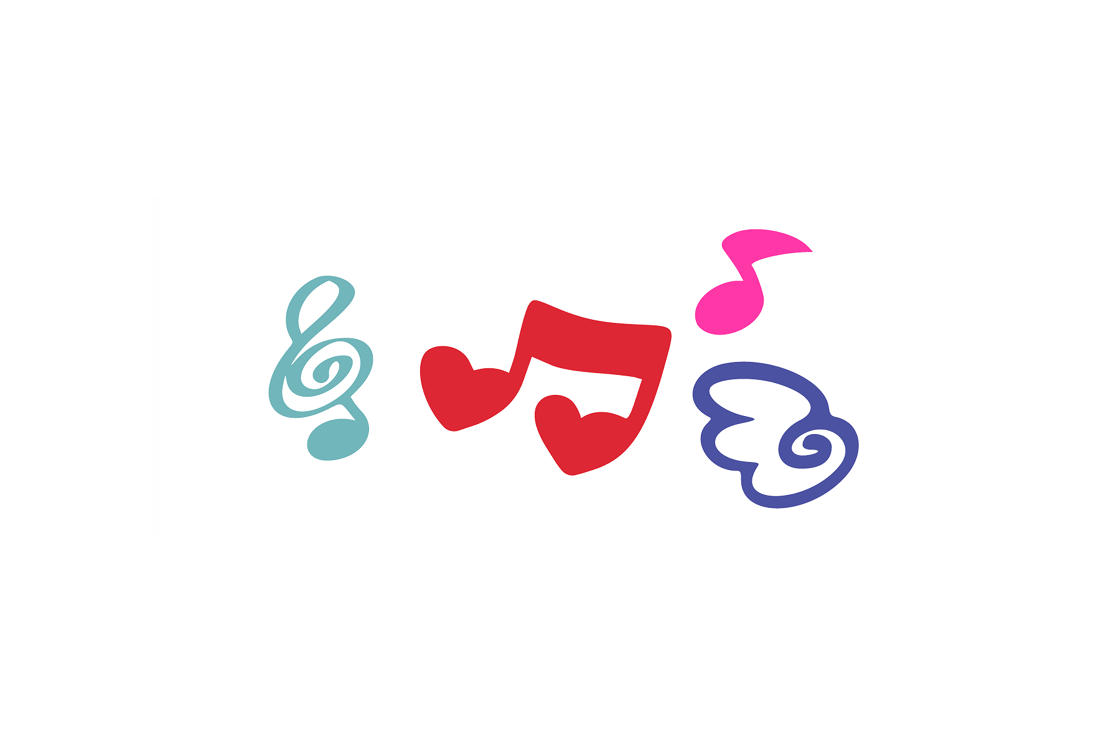
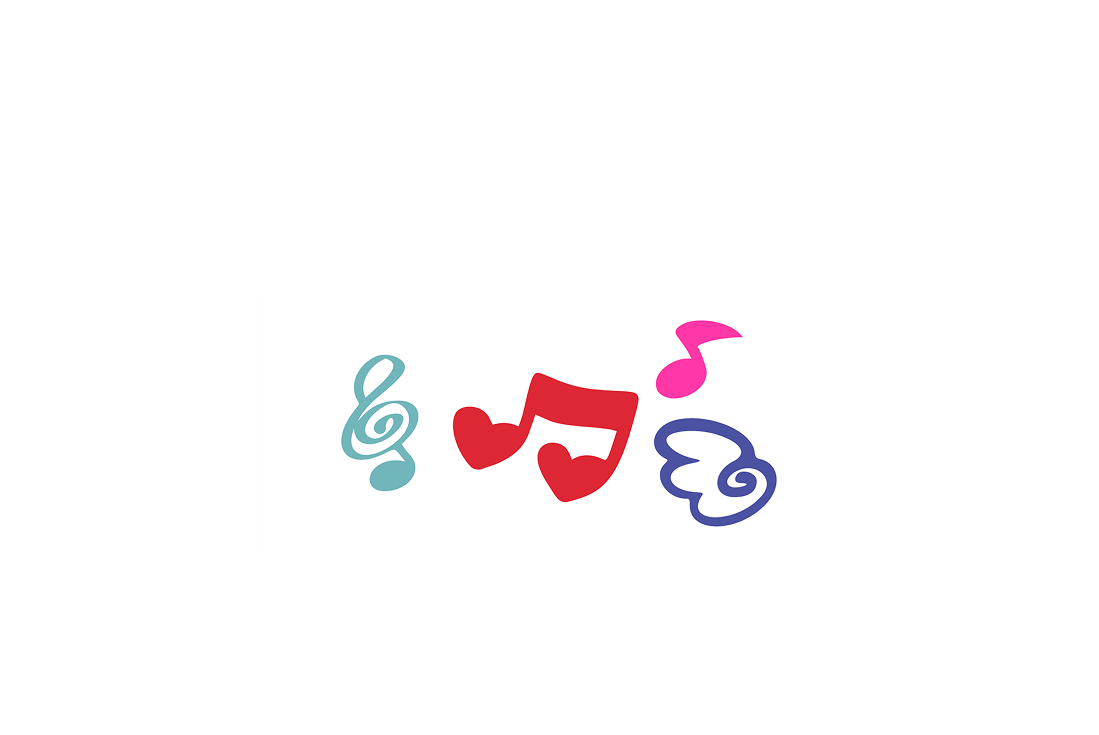
updated the ascii sections. and a new footer. still need more updates to ascii though

Changed region(s): [[0.2475, 0.2993, 0.8044, 0.7184]]

diff --git a/src/footer.js b/src/footer.js
@@ -9,117 +9,186 @@ class FooterComponent extends HTMLElement {
 
       <style>
         * {
+          box-sizing: border-box;
           font-family: "Darker Grotesque", sans-serif;
         }
 
         footer {
-              background: #1B191B;
-
-         //padding: 48px 64px;
-          padding: 32px 64px;
+          background: #1B191B;
+          padding: 40px 96px;
           border-top: 1px solid #272630;
           display: flex;
           justify-content: space-between;
           align-items: center;
+          gap: 2rem;
+        }
+
+        /* Each section takes equal width */
+        .footer-brand {
+          flex: 1;
+        }
+
+        .footer-nav {
+          flex: 1;
+          display: flex;
+          justify-content: center;
+        }
+
+        .footer-social {
+          flex: 1;
+          display: flex;
+          justify-content: flex-end;
         }
 
         header {
           font-size: 20px;
           color: #FFFFFF;
           font-weight: 500;
+          white-space: nowrap;
+        }
+
+        .nav-links {
+          display: flex;
+          gap: 0.25rem;
+          list-style: none;
+          margin: 0;
+          padding: 0;
+          font-weight: 500;
+          align-items: center;
+        }
+
+        .nav-links a {
+          color: #8C8A98;
+          font-size: 14px;
+          font-family: "Fragment Mono", monospace;
+          display: inline-block;
+          padding: 6px 10px;
+          text-decoration: none;
+          border-radius: 6px;
+          transition: color 0.2s ease;
+          white-space: nowrap;
+        }
+
+        .nav-links a:hover {
+          color: #FFFFFF;
         }
 
         .social-links {
           display: flex;
-          gap: 1rem;
+          gap: 0.5rem;
+          align-items: center;
         }
 
-        a {
+        .social-links a {
           display: flex;
           justify-content: center;
           align-items: center;
-          width: 3rem;
-          height: 3rem;
-          font-size: 1.5rem;
-          border-radius: 12px;
+          width: 2.25rem;
+          height: 2.25rem;
+          font-size: 1rem;
+          border-radius: 10px;
           text-decoration: none;
-          transition: background 0.3s ease-in-out; /* Smooth transition for background color */
+          transition: background 0.25s ease, transform 0.2s ease;
           color: white;
+          background: #2a2830;
+          flex-shrink: 0;
         }
 
-        /* Button Colors */
-        a.linkedin {
-        }
-        a.instagram {
-        }
-        a.behance {
-        }
-        a.email {
+        .social-links a:hover {
+          transform: translateY(-2px);
         }
 
-        /* Lighten Hover Effect */
-        a.linkedin:hover {
-          background: #6f76c8; /* Lighter shade for hover effect */
-        }
-        a.instagram:hover {
-          background: rgb(255, 95, 158); /* Lighter shade for hover effect */
-        }
-        a.behance:hover {
-          background: #5e3c49; /* Lighter shade for Behance on hover */
-        }
-        a.email:hover {
-          background: #33b0b0; /* Lighter shade for hover effect */
+        .social-links a.linkedin:hover {
+          background: #6f76c8;
         }
 
-        @media (min-width: 1100px) {
-          .social-links {
-            gap: 2rem;
-          }
-          a {
-            width: 7.5rem;
+        .social-links a.email:hover {
+          background: #33b0b0;
+        }
+
+        /* instagram / behance — commented out but ready */
+        .social-links a.instagram:hover {
+          background: rgb(255, 95, 158);
+        }
+        .social-links a.behance:hover {
+          background: #5e3c49;
+        }
+
+        @media (min-width: 1536px) {
+          header {
+            font-size: 28px;
           }
         }
 
-
-         @media (min-width: 1536px) {
-         
-        header {
-          font-size: 28px;
-        }
-
+        @media (max-width: 900px) {
+          footer {
+            padding: 36px 48px;
+          }
+          .nav-links a {
+            padding: 6px 7px;
+          }
         }
 
         @media (max-width: 768px) {
           footer {
             flex-direction: column;
-            padding: 28px;
-            gap: 24px;
+            align-items: center;
+            padding: 32px 24px;
+            gap: 20px;
+            text-align: center;
           }
+
+          .footer-brand,
+          .footer-nav,
+          .footer-social {
+            flex: unset;
+            width: 100%;
+            display: flex;
+            justify-content: center;
+          }
+
+          .nav-links {
+            flex-wrap: wrap;
+            justify-content: center;
+            gap: 0;
+          }
+
           .social-links {
             justify-content: center;
-            margin-top: 0.5rem;
-            gap: 16px;
-          }
-          a {
-            width: 3rem;
-            height: 3rem;
-            border-radius: 12px;
+            gap: 0.75rem;
           }
         }
       </style>
 
       <footer>
-        <header>Fine-tuned and developed in JS and by me :)</header>
-        <div class="social-links">
-          <a class="linkedin" href="https://www.linkedin.com/in/ninale65/" target="_blank">
-            <i class="fa-brands fa-linkedin-in"></i>
-          </a>
+        <div class="footer-brand">
+          <header>© 2026, Developed in JS by me :)</header>
+        </div>
 
-      
+        <nav class="footer-nav">
+          <ul class="nav-links">
+            <li><a href="index.html">HOME</a></li>
+            <li><a href="archive.html">PLAYGROUND</a></li>
+            <li><a href="about.html">ABOUT</a></li>
+            <li><a href="mailto:ninalle.65@gmail.com">RESUME</a></li>
+          </ul>
+        </nav>
 
-          <a class="email" href="mailto:ninalle.65@gmail.com">
-            <i class="fa-solid fa-envelope"></i>
-          </a>
+        <div class="footer-social">
+          <div class="social-links">
+            <a class="linkedin" href="https://www.linkedin.com/in/ninale65/" target="_blank" aria-label="LinkedIn">
+              <i class="fa-brands fa-linkedin-in"></i>
+            </a>
+            <!-- <a class="instagram" href="https://www.instagram.com/ninmedias/" target="_blank" aria-label="Instagram">
+              <i class="fa-brands fa-instagram"></i>
+            </a> -->
+            <!-- <a class="behance" href="https://www.behance.net/ninale1" target="_blank" aria-label="Behance">
+              <i class="fa-brands fa-behance"></i>
+            </a> -->
+            <a class="email" href="mailto:ninalle.65@gmail.com" aria-label="Email">
+              <i class="fa-solid fa-envelope"></i>
+            </a>
+          </div>
         </div>
       </footer>
     `;
@@ -127,13 +196,3 @@ class FooterComponent extends HTMLElement {
 }
 
 customElements.define("footer-component", FooterComponent);
-
-
-    
-          // <a class="instagram" href="https://www.instagram.com/ninmedias/" target="_blank">
-          //   <i class="fa-brands fa-instagram"></i>
-          // </a>
-          // <a class="behance" href="https://www.behance.net/ninale1" target="_blank">
-          //   <i class="fa-brands fa-behance"></i>
-          // </a>
-          

diff --git a/src/archive.html b/src/archive.html
@@ -76,40 +76,6 @@
 
 
     
-    <section class="flex flex-col md:flex-row pt-8 md:pt-12 md:pb-6 gap-6 flex-1">
-      <div class="flex flex-col gap-4 md:gap-8 px-4 md:px-16 sm:pt-10">
-          <h3>Let's Chat</h3>
-          <h4>See something that caught your eye? I’d be happy to collaborate and discuss new opportunities together</h4>
-      </div>
-      <div class="w-full">
-  
-        <a href="https://drive.google.com/file/d/15Vbiz09x6SVD2cTScr3ldKVGAPqeNlPY/view?usp=sharing" target="_blank">
-          <div class="border-b border-grey p-4 pr-3 py-8 md:pr-12 flex items-center justify-between hover:text-indigo-700 duration-500 cursor-pointer hover-image">
-            <h6>Resume</h6>
-            <span class="material-symbols-outlined text-xl"><h2 class="font-thin">trending_flat</h2></span>
-          </div>
-        </a>
-  
-        <a href="index.html">
-          <div class="border-b border-grey p-4 pr-3 py-8 md:pr-12 flex items-center justify-between hover:text-indigo-700 duration-500 cursor-pointer hover-image">
-            <h6>Projects</h6>
-            <span class="material-symbols-outlined text-xl"><h2 class="font-thin">trending_flat</h2></span>
-            <span class="cursor-text">About me</span>
-          </div>
-        </a>
-  
-        <!-- Add the hover-image class to other elements as well -->
-  
-        <a href="about.html">
-          <div class="p-4 pr-3 py-8 md:pr-12 flex items-center justify-between hover:text-indigo-700 duration-500 cursor-pointer hover-image">
-            <h6>About</h6>
-            <span class="material-symbols-outlined text-xl"><h2 class="font-thin">trending_flat</h2></span>
-          </div>
-        </a>
-      </div>
-    </section>
-
-    
       
     
       <footer-component></footer-component>

diff --git a/src/index.html b/src/index.html
@@ -40,8 +40,8 @@
     <div class="grid-crosshair left"></div>
     <div class="grid-crosshair right"></div>
 
-    <div class="flex flex-col items-center justify-center w-full relative pt-24 md:pt-28 2xl:pt-32">
-          <div id="ascii-music-container" class=" z-10 bg-white bg-blend-multiply"></div>
+    <div class="flex flex-col items-center justify-center w-full relative">
+          <div id="ascii-music-container" class=" z-0 mix-blend-multiply"></div>
       </div>
 
 
@@ -65,7 +65,7 @@
     <div class="grid-crosshair right"></div>
 
     <div class=" items-center px-4 md:px-24 2xl:px-20 gap-y-8 gap-12">
-          <!-- <h6 class="text-center py-8">FEATURED WORK</h6> -->
+          <!-- <h3 class="font-normal py-8">Featured Work</h3> -->
 
       <!--   <div class="pb-2 w-full lg:w-28 rounded-full rounded-tl-none h-12 md:h-16 2xl:h-20 2xl:w-32 flex items-center 
           <h3 class="text-white text-center 2xl:text-[36px]">uxui</h3>

diff --git a/src/main.js b/src/main.js
@@ -43,8 +43,8 @@ function createCards(sectionSelector, cardsData, isBrandSection = false) {
     const cardDiv = document.createElement("div");
     cardDiv.className =
       sectionSelector === ".cards-section" && index < 2
-        ? "pb-6 flex flex-col space-y-4 flex-1" // No animation for the first two cards
-        : "pb-6 flex flex-col space-y-4 flex-1 md:down"; // Apply animation to the rest
+        // ? "pb-6 flex flex-col space-y-4 flex-1" // No animation for the first two cards
+        // : "pb-6 flex flex-col space-y-4 flex-1 md:down"; // Apply animation to the rest
 
     // Image class based on the card title
     const imageClass =

diff --git a/src/ascii-music.js b/src/ascii-music.js
@@ -22,7 +22,7 @@ function initAsciiMusic() {
       ".",
       "~",
     ];
-    let stepSize = 14;
+    let stepSize = 9;
     let t = 0;
     let asciiAmount = 1;
     let transitionDuration = 8;
@@ -55,7 +55,7 @@ function initAsciiMusic() {
     };
 
     p.draw = function () {
-      p.background(255);
+      p.background('#fcfcfc');
       
       if (!imgLoaded || !img) {
         p.fill(0);
